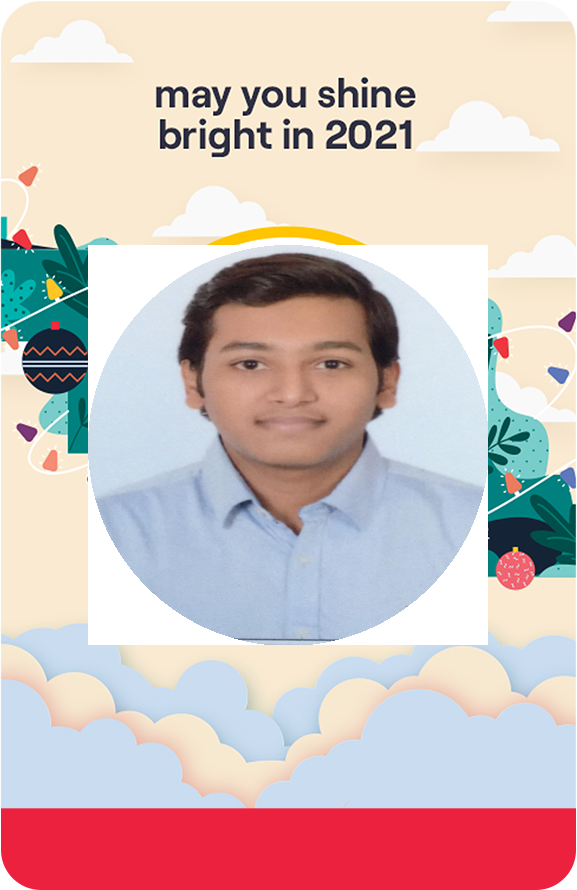
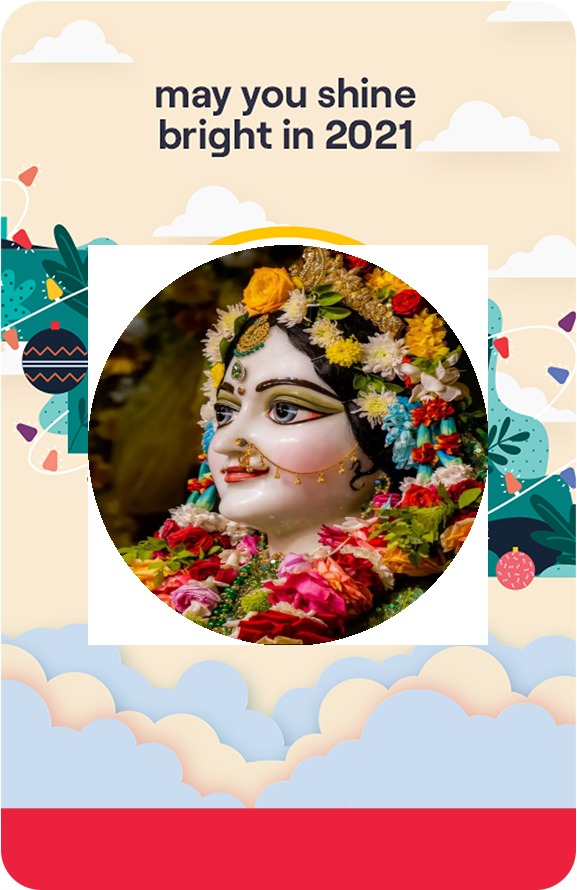
image recog, upload, append working

Changed region(s): [[0.1248, 0.273, 0.8735, 0.7281]]

diff --git a/templates/result.html b/templates/result.html
@@ -4,11 +4,24 @@
     <title>Greeting App</title>
   </head>
   <body>
-    <br><br><br>
+    <br><br>
+  
     <h1 align="center">Greeting App</h1>
-    <form align="center" method="POST" enctype="multipart/form-data">
-      <input type="file" name="user_image">
-      <button type="submit">Generate Greeting</button>
-    </form>
+    <br>
+    <form action="{{ url_for('upload') }}" method="post" enctype="multipart/form-data">
+      <input type="file" name="file">
+      <button type="submit">Upload</button>
+  </form>
+    <br>
+    <form action="{{ url_for('download') }}" method="post">
+      <input type="hidden" name="filename" value="{{ filename }}">
+      <input type="hidden" name="file" value="{{ file }}">
+      <button type="submit">Download</button>
+  </form>
+    <center>{% if message %}
+      <p>{{ message }}</p>
+      {% endif %}
+      </center>
+      <br>
   </body>
 </html>

diff --git a/templates/index.html b/templates/index.html
@@ -52,7 +52,7 @@
     setTimeout(function () {
       document.getElementById('splash').style.display = 'none';
       document.getElementById('content').style.display = 'block';
-    }, 3000);
+    }, 1000);
   </script>
 </body>
 

diff --git a/app.py b/app.py
@@ -1,16 +1,16 @@
 
 from io import BytesIO
-from flask import Flask, flash, request, redirect, url_for, render_template, send_file
+from flask import Flask, session, flash, request,send_from_directory, redirect, url_for, render_template, send_file
 import urllib.request
 import os
+import base64
+
+import cv2
 from werkzeug.utils import secure_filename
-from PIL import Image, ImageDraw, ImageOps
+import PIL
+from PIL import Image, ImageDraw, ImageOps,UnidentifiedImageError
  
 app = Flask(__name__)
-
-picFolder = os.path.join('static', 'images')
-print(picFolder)
-app.config['UPLOAD_FOLDER'] = picFolder 
 
 UPLOAD_FOLDER = 'uploads/'
  
@@ -20,31 +20,55 @@ app.config['MAX_CONTENT_LENGTH'] = 16 * 1024 * 1024
  
 ALLOWED_EXTENSIONS = set(['png', 'jpg', 'jpeg', 'gif'])
  
-def allowed_file(filename):
-    return '.' in filename and filename.rsplit('.', 1)[1].lower() in ALLOWED_EXTENSIONS
-     
+    
  
 @app.route('/',methods = ['GET', 'POST'])
 def index():
-    pic1 = os.path.join(picFolder, 'BG.png')
     if request.method == 'POST':
         name = request.form['name']
         city = request.form['city']
         email = request.form['email']
         mobile = request.form['mobile']
-        return render_template('result.html', name=name, city=city, email=email, mobile=mobile, user_image=pic1)
+        return render_template('result.html', name=name, city=city, email=email, mobile=mobile)
     else:
         return render_template('index.html') 
 
 
-@app.route('/home', methods=['GET', 'POST'])
-def home():
+@app.route('/upload', methods=['GET', 'POST'])
+def upload():
     if request.method == 'POST':
+        if 'file' not in request.files:
+            return 'No file uploaded'
+        file = request.files['file']
+        if file.filename == '':
+            return 'No file selected'
+        if file:
+            filename = file.filename
+            file.save(os.path.join('uploads', file.filename))
+            image = cv2.imread(os.path.join('uploads', file.filename))
+            face_cascade = cv2.CascadeClassifier(cv2.data.haarcascades + 'haarcascade_frontalface_default.xml')
+            gray = cv2.cvtColor(image, cv2.COLOR_BGR2GRAY)
+            faces = face_cascade.detectMultiScale(gray, scaleFactor=1.1, minNeighbors=5, minSize=(30, 30))
+            if len(faces) == 0:
+                return render_template('result.html', message='No face detected. Please upload another image.')
+            else: 
+                return render_template('result.html', filename=filename,file=file)
+
+
+@app.route('/download', methods=['GET', 'POST'])
+def download():
+    if request.method == 'POST':
+        filename = request.form['filename']
+        file = request.form['file']
+        print(file,filename)
         # Get user image from uploaded file
-        user_image = request.files['user_image'].read()
+        
 
         # Load user image using Pillow library
-        user_img = Image.open(BytesIO(user_image))
+        user_img = Image.open(f'uploads/{filename}')
+
+        # Load template image using Pillow library
+        template_img = Image.open('template.png')
 
         # Load template image using Pillow library
         template_img = Image.open('template.png')
@@ -85,8 +109,11 @@ def home():
 
         # Download final image
         return send_file('Greeting_final.png', as_attachment=True)
+        return send_from_directory(app.config['UPLOAD_FOLDER'], filename)
+
 
     return render_template('result.html')
+
  
 if __name__ == "__main__":
     app.run()
